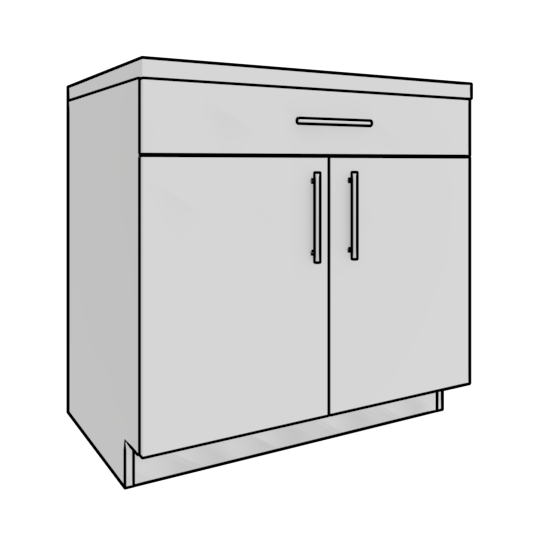
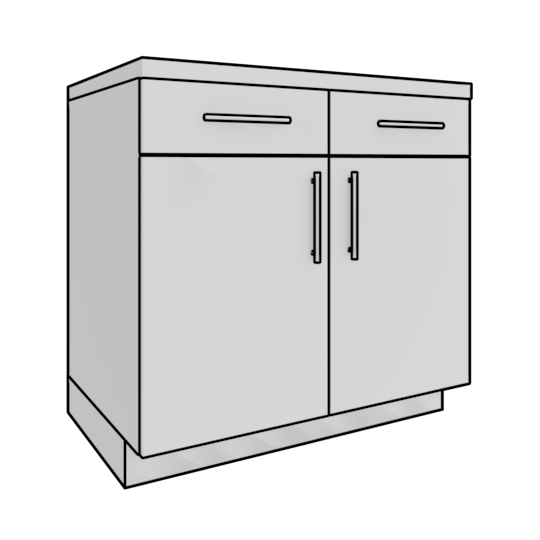
Adding more door drawer cabinets

diff --git a/cabinets/data_cabinet_exteriors.py b/cabinets/data_cabinet_exteriors.py
@@ -13,9 +13,9 @@ exterior_selection = [('SELECT_EXTERIOR',"Select Exterior","Select Exterior"),
                       ('LEFT_SWING_DOOR',"Left Swing Doors","Left Swing Doors"),
                       ('RIGHT_SWING_DOOR',"Right Swing Doors","Right Swing Doors"),
                       ('DOUBLE_DOORS',"Double Doors","Double Doors"),
-                    #   ('2_DOOR_2_DRAWER',"2 Door 2 Drawer","2 Door 2 Drawer"),
-                    #   ('1_DOOR_1_DRAWER',"1 Door 1 Drawer","1 Door 1 Drawer"),
-                    #   ('2_DOOR_1_DRAWER',"2 Door 1 Drawer","2 Door 1 Drawer"),
+                      ('2_DOOR_2_DRAWER',"2 Door 2 Drawer","2 Door 2 Drawer"),
+                      ('1_DOOR_1_DRAWER',"1 Door 1 Drawer","1 Door 1 Drawer"),
+                      ('2_DOOR_1_DRAWER',"2 Door 1 Drawer","2 Door 1 Drawer"),
                     #   ('SLIDING_DOORS',"Sliding Doors","Sliding Doors"),
                       ('1_DRAWERS',"1 Drawer","1 Drawer"),
                       ('2_DRAWERS',"2 Drawers","2 Drawers"),
@@ -36,11 +36,15 @@ def get_class_from_name(name):
         exterior = Doors()          
         exterior.door_swing = 2 
     elif name == '2_DOOR_2_DRAWER':
-        exterior = Doors()#TODO
+        exterior = Door_Drawer()
+        exterior.two_drawers = True
+        exterior.door_swing = 2
     elif name == '1_DOOR_1_DRAWER':
-        exterior = Doors()#TODO
+        exterior = Door_Drawer()
+        exterior.door_swing = 0
     elif name == '2_DOOR_1_DRAWER':
-        exterior = Doors()#TODO
+        exterior = Door_Drawer()
+        exterior.door_swing = 2
     elif name == 'SLIDING_DOORS':
         exterior = Doors()#TODO
     elif name == '1_DRAWERS':
@@ -423,7 +427,8 @@ class Drawers(Cabinet_Exterior):
 class Door_Drawer(Cabinet_Exterior):
 
     door_swing = 0 # Left = 0, Right = 1, Double = 2
-    
+    two_drawers = False
+
     def set_pull_props(self,obj):
         obj['IS_CABINET_PULL'] = True
         home_builder_pointers.assign_pointer_to_object(obj,"Cabinet Pull Finish")  
@@ -450,7 +455,10 @@ class Door_Drawer(Cabinet_Exterior):
         common_prompts.add_pull_prompts(self)
         common_prompts.add_thickness_prompts(self)
 
-        add_two_drawer_fronts = self.add_prompt("Add Two Drawer Fronts",'CHECKBOX',False)
+        door_swing_prompt = self.get_prompt("Door Swing")
+        door_swing_prompt.set_value(self.door_swing)
+
+        add_two_drawer_fronts = self.add_prompt("Add Two Drawer Fronts",'CHECKBOX',self.two_drawers)
         add_two_drawer_fronts_var = add_two_drawer_fronts.get_var('add_two_drawer_fronts_var')
 
         top_df_height = self.add_prompt("Top Drawer Front Height",'DISTANCE',pc_unit.inch(6))

diff --git a/cabinets/cabinet_library.py b/cabinets/cabinet_library.py
@@ -38,6 +38,33 @@ class Base_2_Door_2_Drawer(data_cabinets.Standard_Cabinet):
         self.carcass.interior = None
         self.carcass.exterior = data_cabinet_exteriors.Door_Drawer()
         self.carcass.exterior.door_swing = 2
+        self.carcass.exterior.two_drawers = True
+        # self.exterior.cabinet_type = 'Base'
+        # self.splitter = None
+
+
+class Base_2_Door_1_Drawer(data_cabinets.Standard_Cabinet):
+
+    def __init__(self):
+        self.width = pc_unit.inch(36)
+        self.carcass = data_cabinet_carcass.Base_Advanced()
+        self.carcass.interior = None
+        self.carcass.exterior = data_cabinet_exteriors.Door_Drawer()
+        self.carcass.exterior.door_swing = 2
+        self.carcass.exterior.two_drawers = False
+        # self.exterior.cabinet_type = 'Base'
+        # self.splitter = None
+
+
+class Base_1_Door_1_Drawer(data_cabinets.Standard_Cabinet):
+
+    def __init__(self):
+        self.width = pc_unit.inch(18)
+        self.carcass = data_cabinet_carcass.Base_Advanced()
+        self.carcass.interior = None
+        self.carcass.exterior = data_cabinet_exteriors.Door_Drawer()
+        self.carcass.exterior.door_swing = 0
+        self.carcass.exterior.two_drawers = False
         # self.exterior.cabinet_type = 'Base'
         # self.splitter = None
 
